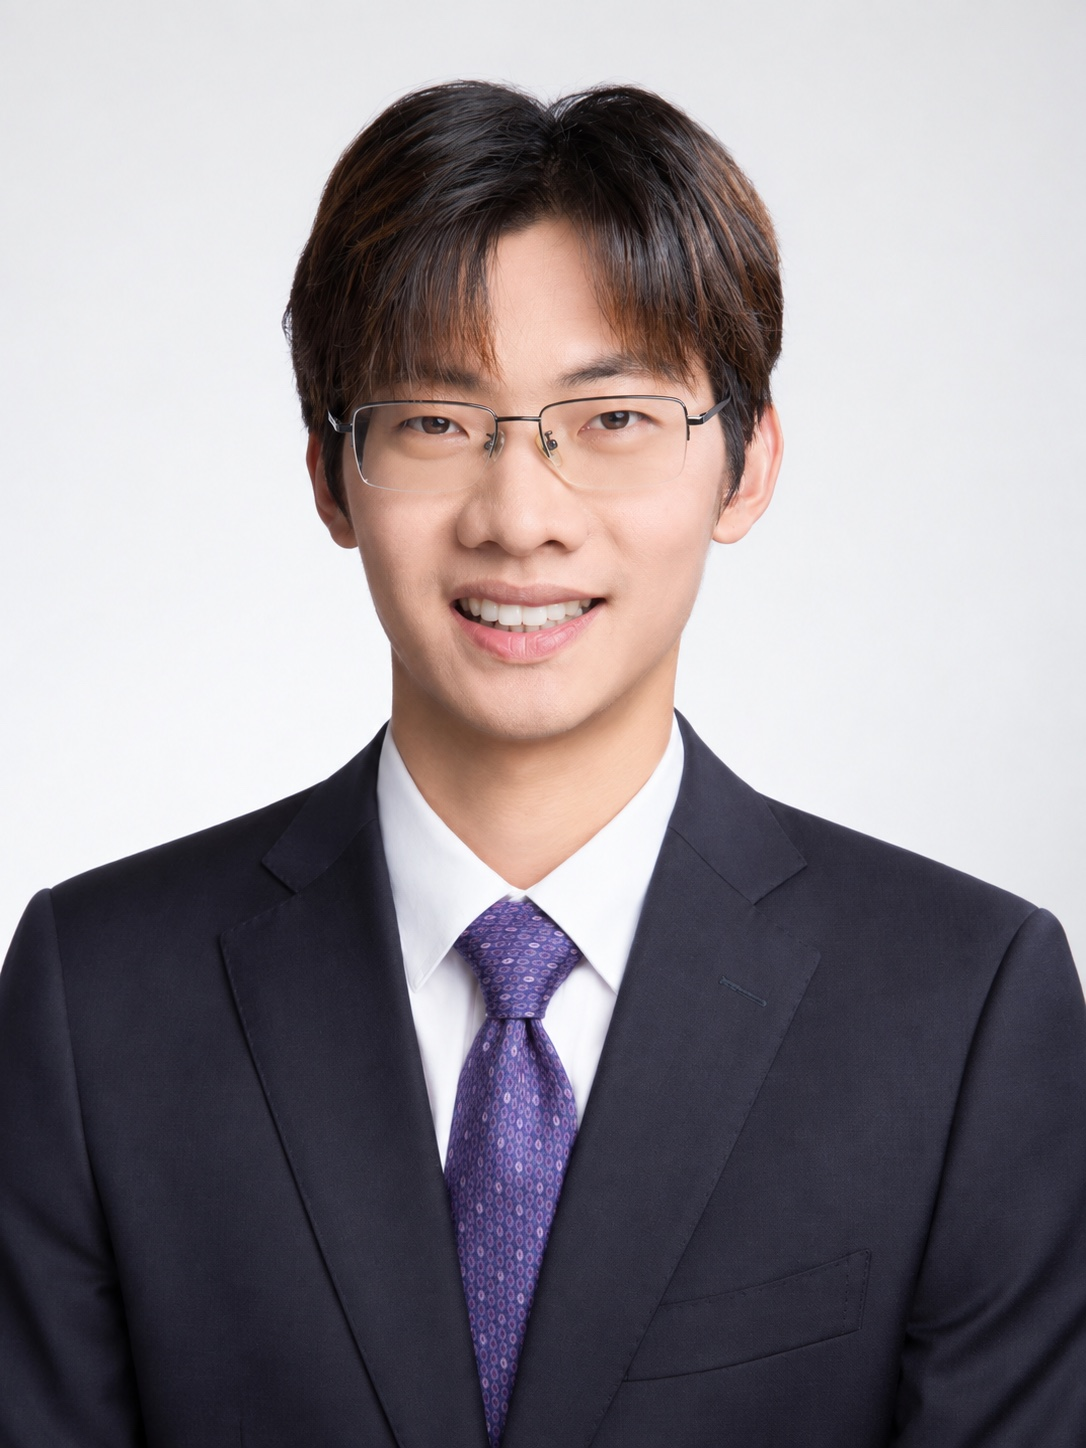
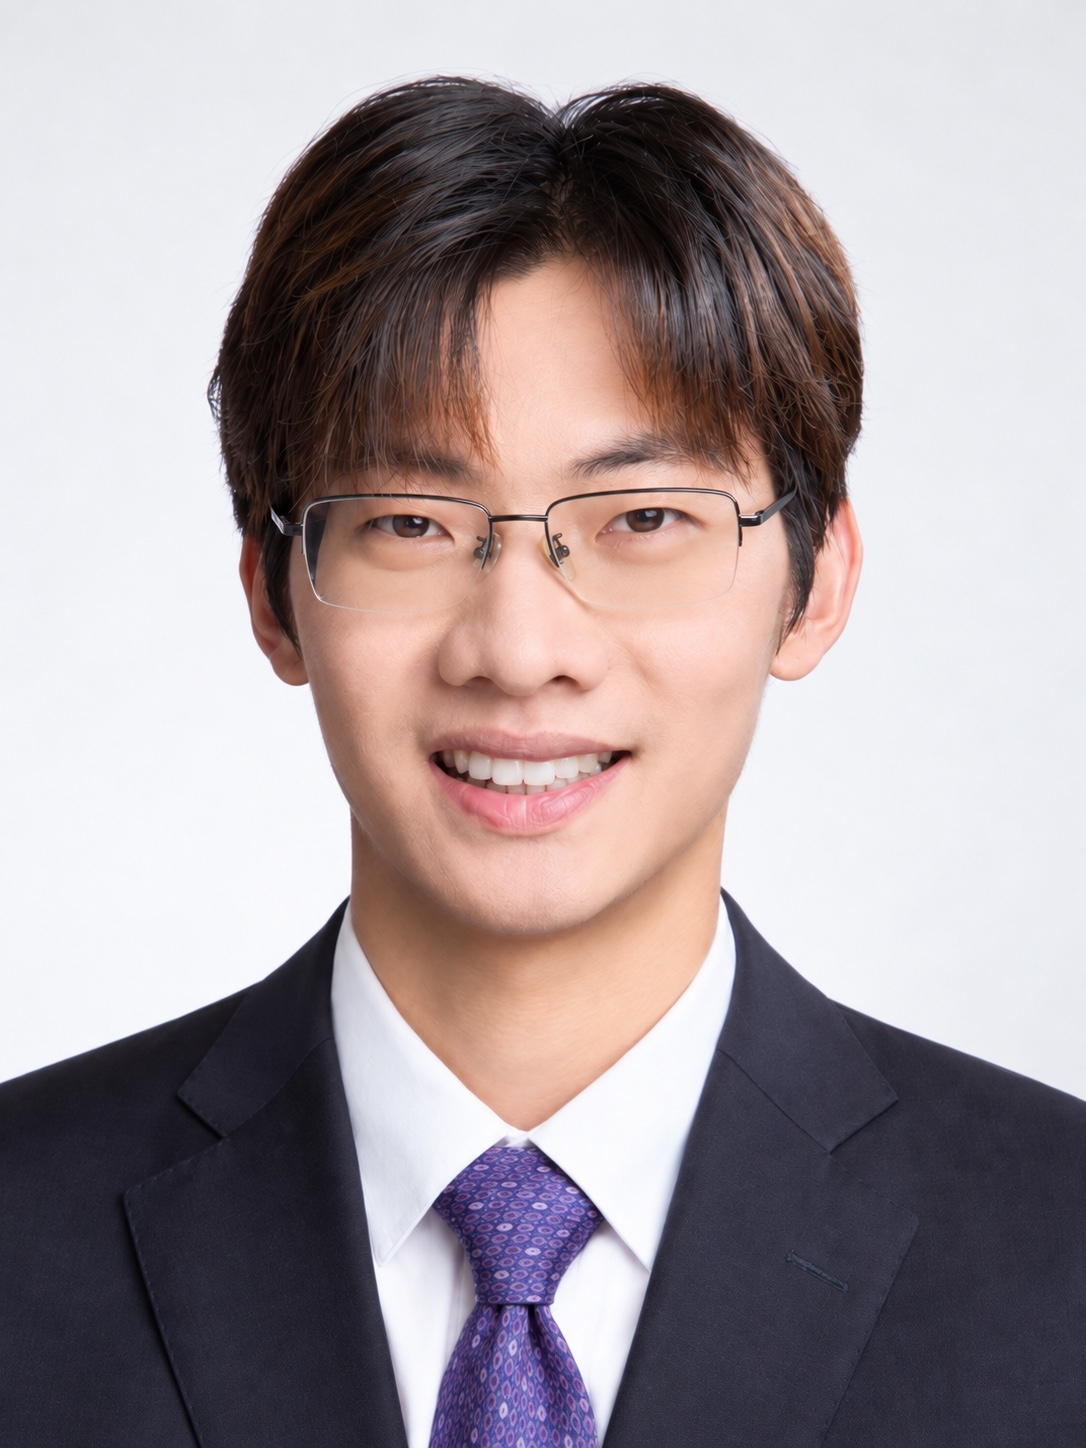
Tighten and reduce faculty portrait

diff --git a/app/globals.css b/app/globals.css
@@ -57,8 +57,8 @@ nav a:hover, nav a:focus-visible { background: #e8f0f7; color: var(--blue-dark);
 .page-heading { display: grid; grid-template-columns: 1fr minmax(260px, .5fr); gap: 50px; align-items: end; margin-bottom: 70px; }
 .page-heading .page-title { margin: 0; }
 .page-heading p { margin: 0; color: var(--muted); }
-.about-layout { display: grid; grid-template-columns: minmax(200px, .4fr) 1.35fr; gap: clamp(42px, 7vw, 90px); }
-.portrait { display: block; width: 100%; max-width: 260px; height: auto; }
+.about-layout { display: grid; grid-template-columns: minmax(180px, .34fr) 1.35fr; gap: clamp(38px, 6vw, 76px); }
+.portrait { display: block; width: 100%; max-width: 220px; height: auto; }
 .long-copy { max-width: 720px; }
 .long-copy h2 { margin: 0 0 18px; padding-top: 42px; color: var(--blue); font: 700 13px Arial, sans-serif; text-transform: uppercase; letter-spacing: .1em; }
 .long-copy h2:first-child { padding-top: 0; }
@@ -108,7 +108,7 @@ nav a:hover, nav a:focus-visible { background: #e8f0f7; color: var(--blue-dark);
   .home-intro, .home-columns { gap: 40px; }
   .page-heading { gap: 24px; }
   .page-title { margin-bottom: 42px; }
-  .portrait { max-width: 230px; }
+  .portrait { max-width: 200px; }
   .tile-grid { grid-template-columns: 1fr 1fr; }
   .year-group { grid-template-columns: 1fr; gap: 22px; }
   .course-list article { grid-template-columns: 120px 1fr; }
